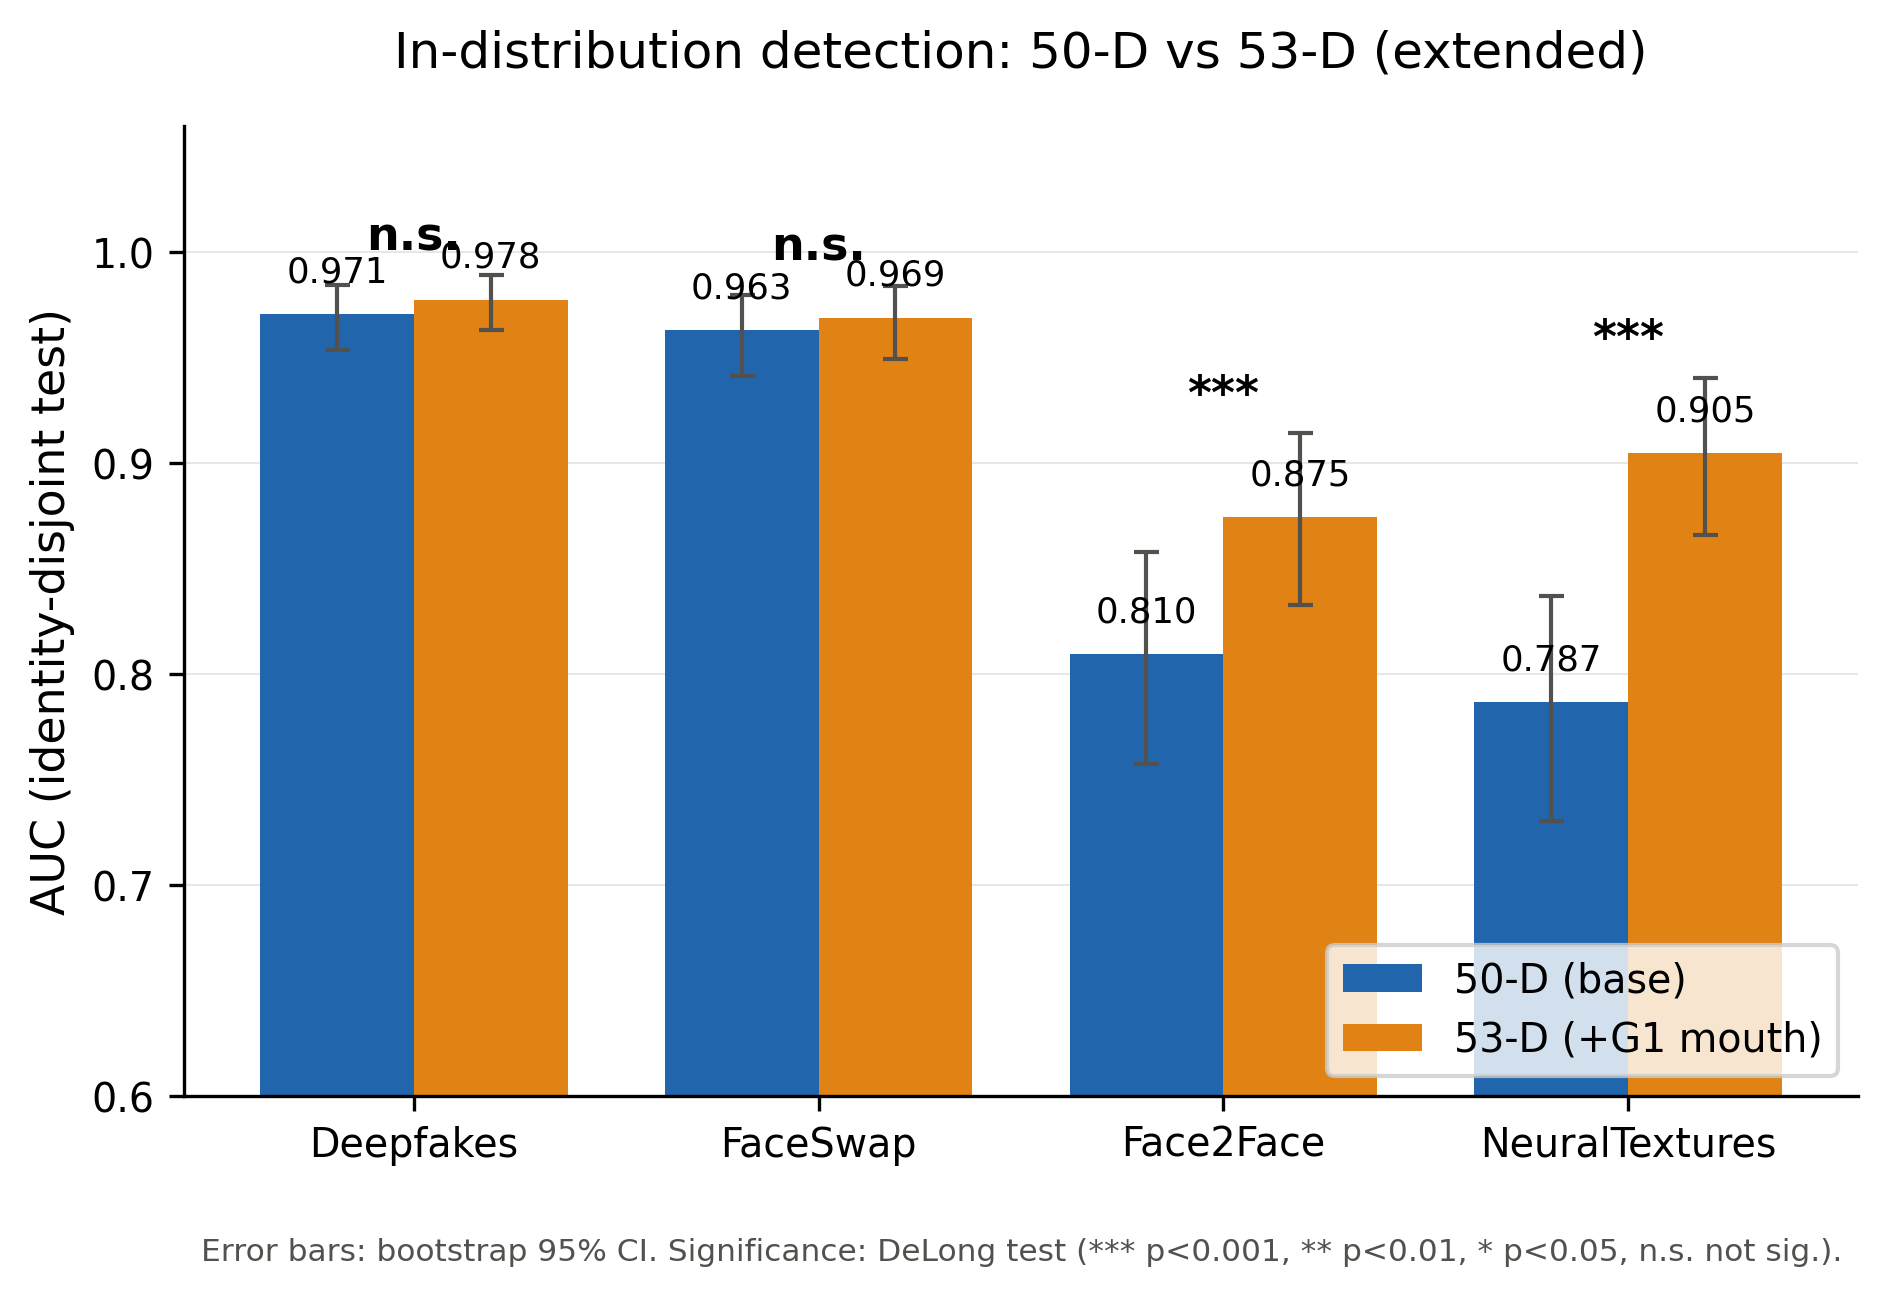
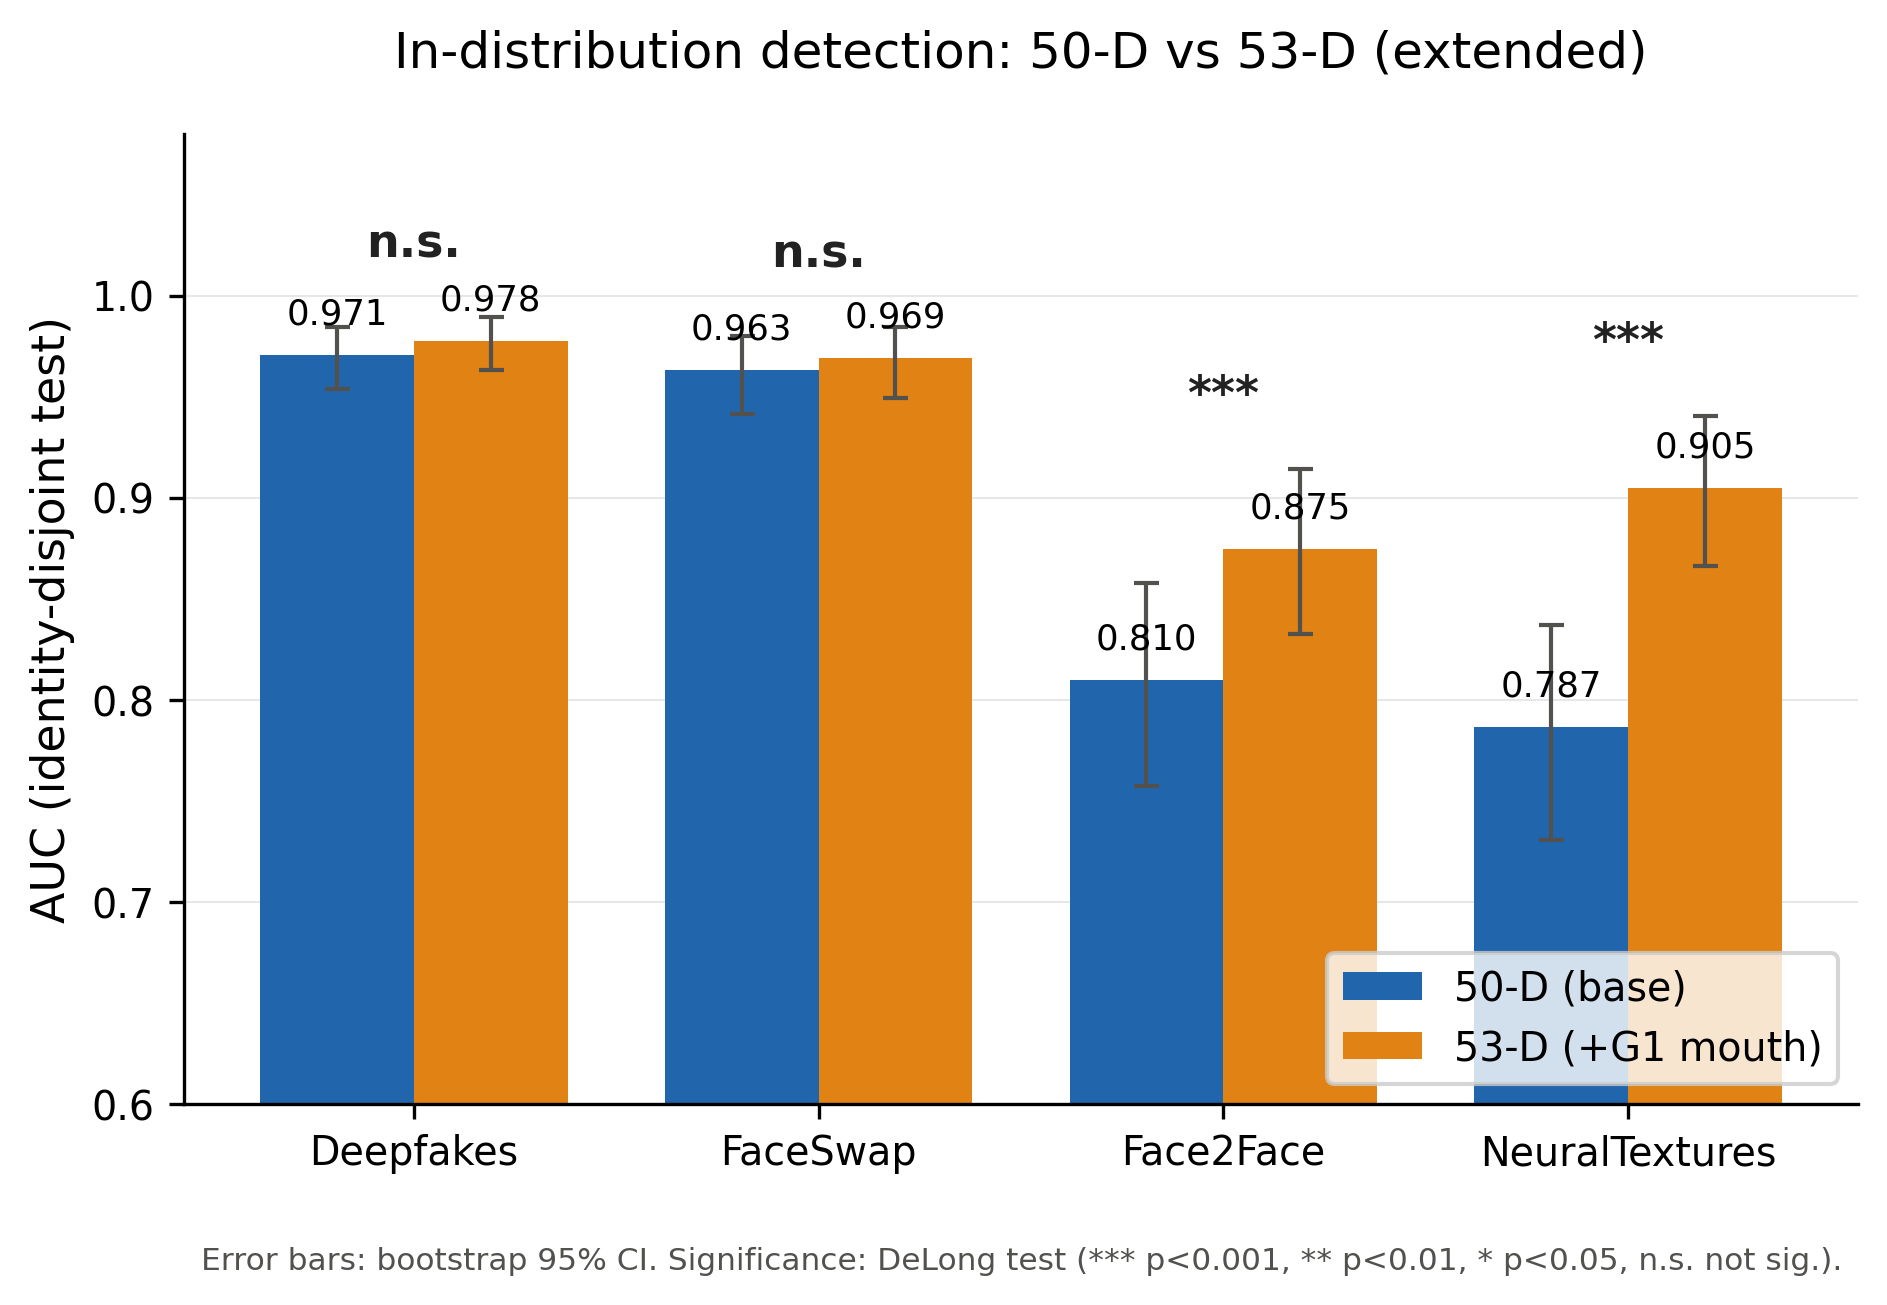
fig1: nudge n.s./significance labels clear of value labels + CI whiskers

diff --git a/Major Revision Results/00_logs/pub_figures.py b/Major Revision Results/00_logs/pub_figures.py
@@ -28,9 +28,9 @@ lbl(ax,b1,dy=0.012); lbl(ax,b2,dy=0.012)
 for i,m in enumerate(MAN):
     p=dl[m]['p_value'] if m in dl else 1
     s='***' if p<1e-3 else '**' if p<1e-2 else '*' if p<0.05 else 'n.s.'
-    yst=max(a50[i]+e50[1][i],a53[i]+e53[1][i])+0.012; ax.text(x[i],yst,s,ha='center',fontsize=11,fontweight='bold')
-ax.set_xticks(x); ax.set_xticklabels(MAN); ax.set_ylabel('AUC (identity-disjoint test)'); ax.set_ylim(0.6,1.06)
-ax.set_title('In-distribution detection: 50-D vs 53-D (extended)',pad=14); ax.legend(loc='lower right'); grid(ax)
+    yst=max(a50[i]+e50[1][i],a53[i]+e53[1][i])+0.030; ax.text(x[i],yst,s,ha='center',fontsize=11,fontweight='bold',color='#222222')
+ax.set_xticks(x); ax.set_xticklabels(MAN); ax.set_ylabel('AUC (identity-disjoint test)'); ax.set_ylim(0.6,1.08)
+ax.set_title('In-distribution detection: 50-D vs 53-D (extended)',pad=16); ax.legend(loc='lower right'); grid(ax)
 ax.text(0.01,-0.17,'Error bars: bootstrap 95% CI. Significance: DeLong test (*** p<0.001, ** p<0.01, * p<0.05, n.s. not sig.).',transform=ax.transAxes,fontsize=7.5,color=GREY)
 plt.savefig(f"{FIG}/fig1_indist_50v53.png"); plt.close()
 
